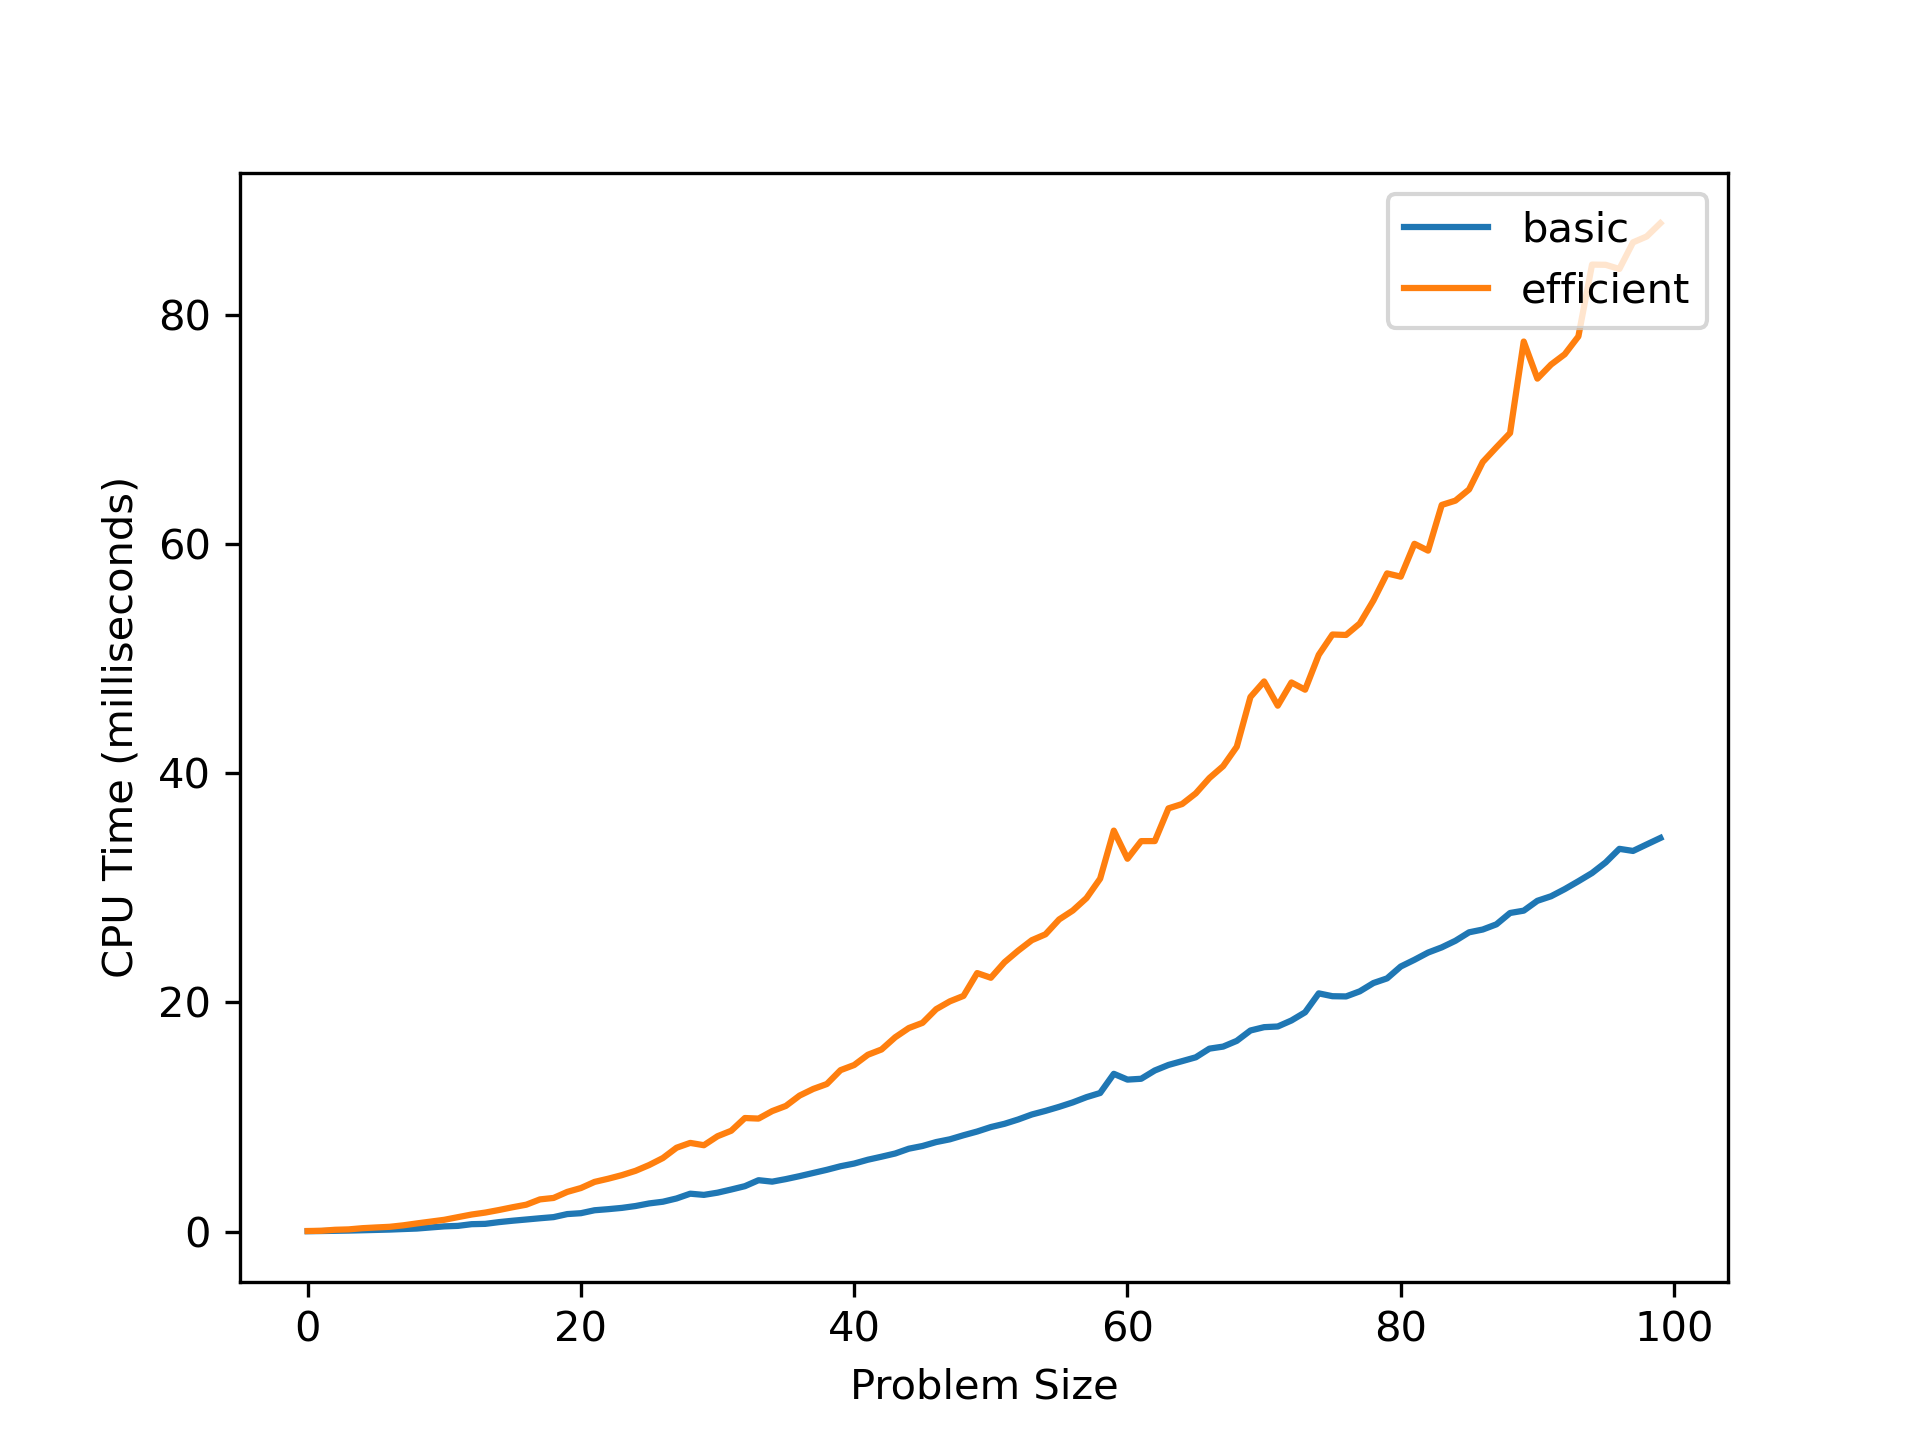
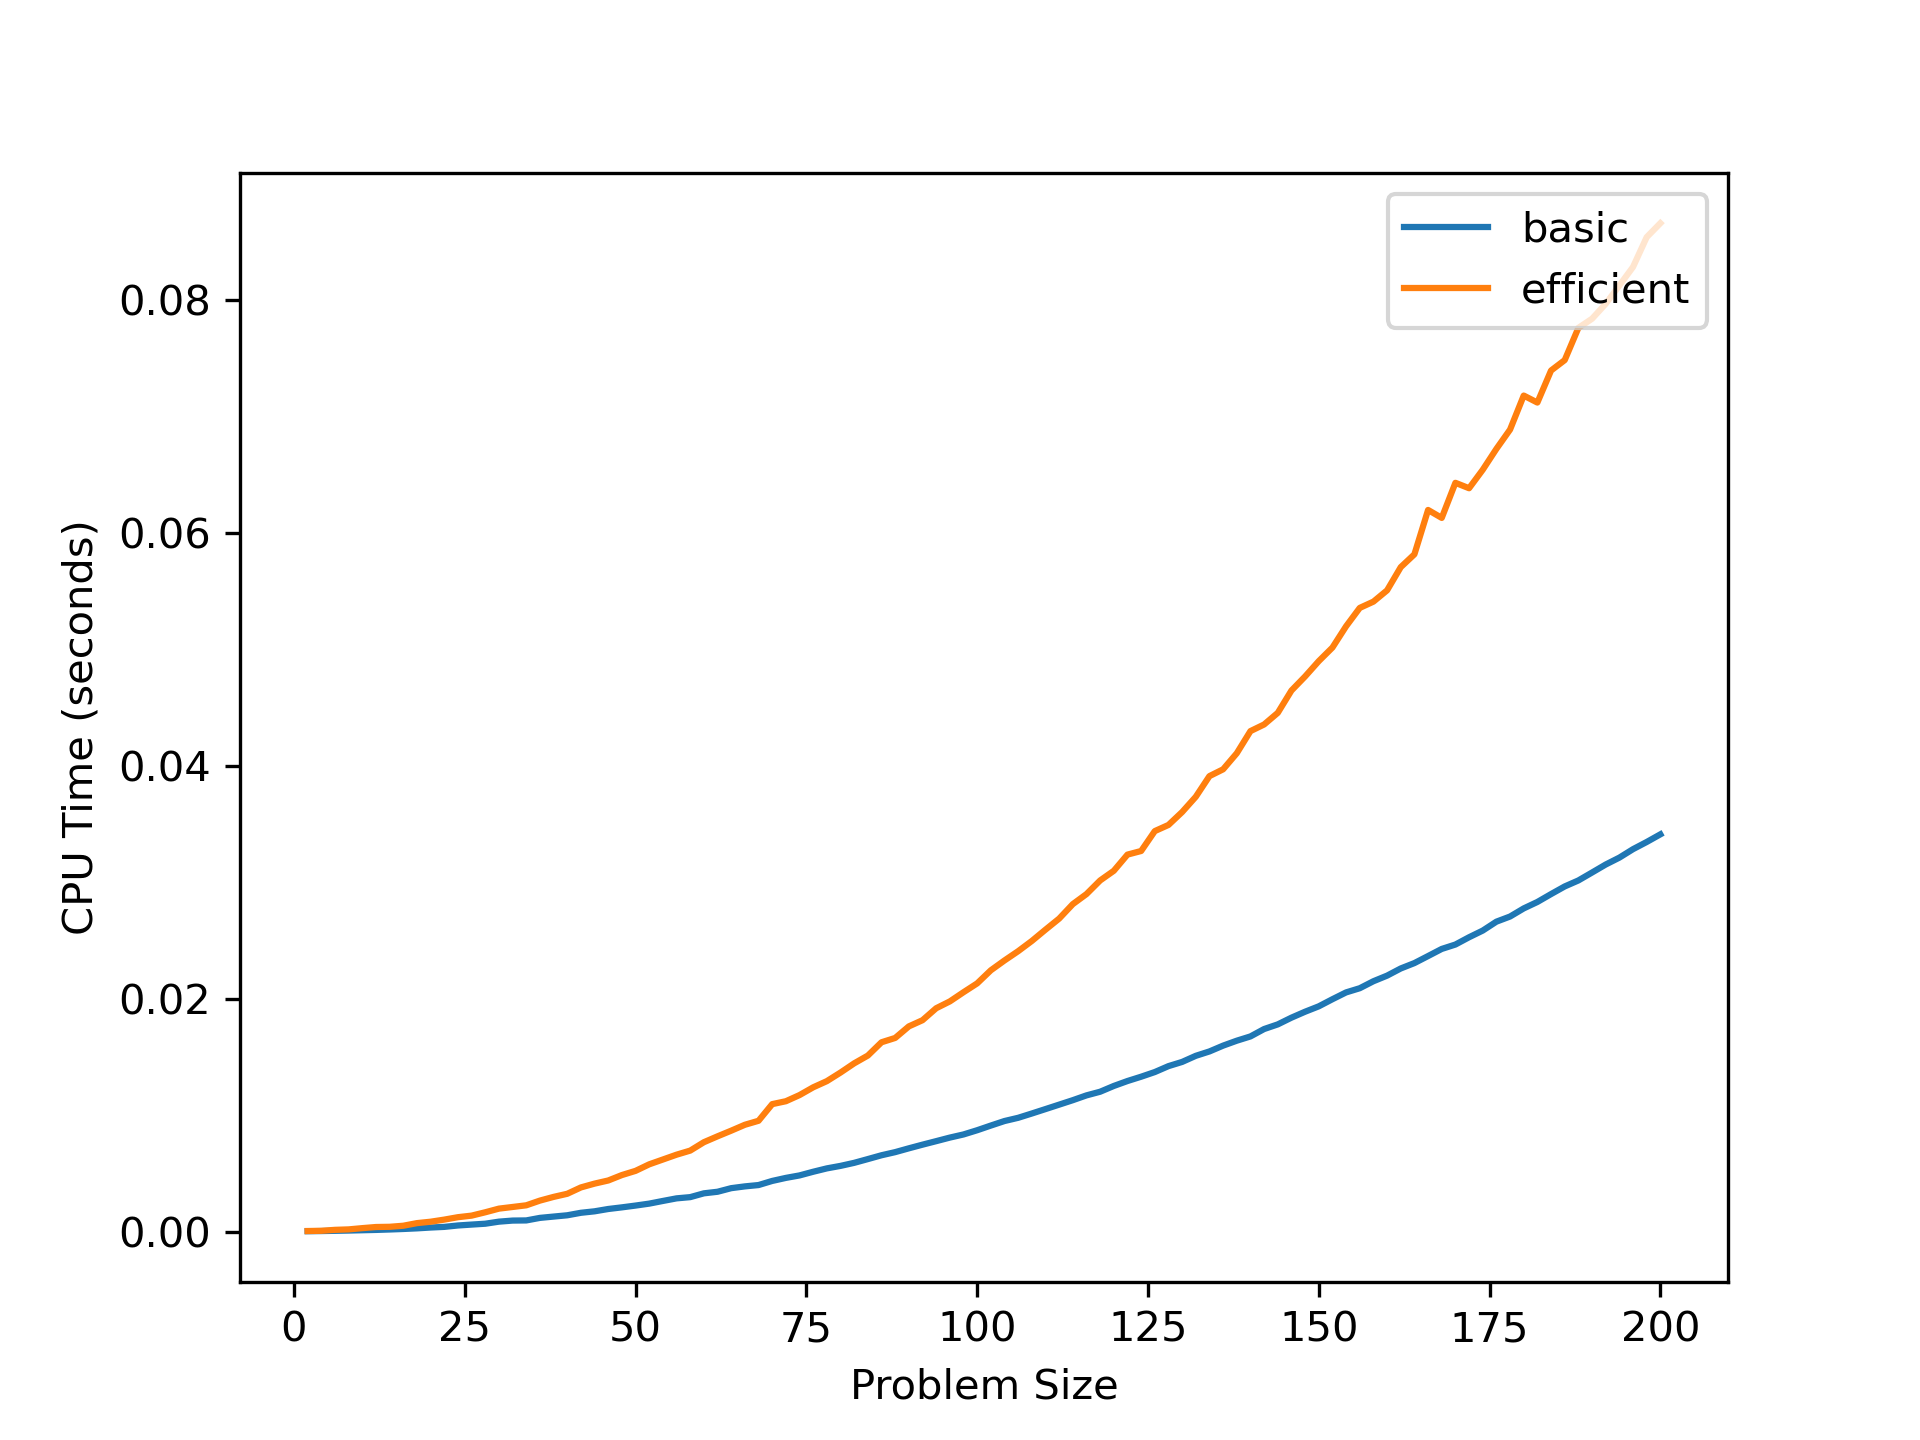
Changes in Problem size, time.

diff --git a/graphs.py b/graphs.py
@@ -48,7 +48,7 @@ def stats_basic(X,Y):
         current_memory_list.append(current_memory / 10**3)
         peak_memory_list.append(peak_memory / 10**3)
     
-    return np.median(time_list)*10**3, np.median(current_memory_list),np.median(peak_memory_list)
+    return np.median(time_list), np.median(current_memory_list),np.median(peak_memory_list)
         
 def stats_efficient(X,Y):
     time_list = []
@@ -65,7 +65,7 @@ def stats_efficient(X,Y):
         current_memory_list.append(current_memory / 10**3)
         peak_memory_list.append(peak_memory / 10**3)
     
-    return np.median(time_list)*10**3, np.median(current_memory_list),np.median(peak_memory_list)
+    return np.median(time_list), np.median(current_memory_list),np.median(peak_memory_list)
 
 def generate_graphs():
 
@@ -77,11 +77,13 @@ def generate_graphs():
         X,Y = generate_X_and_Y(i)
         time_basic, curr_memory_basic , peak_memory_basic = stats_basic(X,Y)
         time_efficient, curr_memory_efficient , peak_memory_efficient = stats_efficient(X,Y)
-        time_comp.append([time_basic,time_efficient])
-        memory_comp.append([peak_memory_basic,peak_memory_efficient])
+        time_comp.append([2*i,time_basic,time_efficient])
+        memory_comp.append([2*i, peak_memory_basic,peak_memory_efficient])
+    
+    
+    time_comp_df = pd.DataFrame(time_comp, columns=['problem_size','time_basic','time_efficient']).set_index('problem_size')
 
-    time_comp_df = pd.DataFrame(time_comp, columns=['time_basic','time_efficient'])
-    memory_comp_df = pd.DataFrame(memory_comp, columns=['peak_memory_basic','peak_memory_efficient'])
+    memory_comp_df = pd.DataFrame(memory_comp, columns=['problem_size','peak_memory_basic','peak_memory_efficient']).set_index('problem_size')
     
     plt.plot(memory_comp_df["peak_memory_basic"], label = 'basic')
     plt.plot(memory_comp_df["peak_memory_efficient"], label = 'efficient')
@@ -91,17 +93,19 @@ def generate_graphs():
     plt.savefig('MemoryPlot.png',dpi=300)
 
     plt.show()
+    plt.clf()
 
     plt.plot(time_comp_df["time_basic"], label = 'basic')
     plt.plot(time_comp_df["time_efficient"], label = 'efficient')
     plt.legend(loc="upper right")
     plt.xlabel('Problem Size')
-    plt.ylabel('CPU Time (milliseconds)')
+    plt.ylabel('CPU Time (seconds)')
     plt.savefig('CPUPlot.png',dpi=300)
     plt.show()
     
-
     return time_comp_df, memory_comp_df
     
 time_comp_df, memory_comp_df = generate_graphs()
 
+time_comp_df.to_csv("time.csv")
+memory_comp_df.to_csv("memory.csv")

diff --git a/efficient.py b/efficient.py
@@ -25,12 +25,13 @@ def read_and_generate_strings(input_file):
                 flag = 1
     return X,Y
 
-def write_output(X_align, Y_align, start_time, current_memory, peak_memory):
+def write_output(X_align, Y_align, start_time, current_memory, peak_memory, cost):
     output_file = open("output.txt", "w")        
     output_file.write(str(X_align[:50])  + ' ' + str(Y_align[:50] )+'\n')
     output_file.write(str(X_align[-50:]) + ' ' + str(Y_align[-50:])+'\n')
+    output_file.write(f'{str(float(cost))}\n')
     output_file.write(f"{time.time()-start_time}"+'\n')
-    output_file.write(f"{peak_memory}"+'\n')
+    output_file.write(f"{peak_memory/1e3}"+'\n')
     output_file.close()
 
 
@@ -185,8 +186,8 @@ def run_sequence_alignment(input_file):
     delta = 30
     X,Y = read_and_generate_strings(input_file)
     sequence_alignment = SequenceAlignmentEfficient(X,Y,alpha,delta)
-    #cost = sequence_alignment.calculate_alignment_cost()
-    return sequence_alignment.find_alignment()
+    cost = sequence_alignment.calculate_alignment_cost()
+    return sequence_alignment.find_alignment(), cost[-1]
 
 
 def main():
@@ -197,11 +198,11 @@ def main():
     tracemalloc.start()
     start_time = time.time()
     
-    X_align, Y_align = run_sequence_alignment(args.input)
-
+    alignment, cost = run_sequence_alignment(args.input)
+    X_align, Y_align = alignment
     current_memory, peak_memory = tracemalloc.get_traced_memory()
     tracemalloc.stop()
-    write_output(X_align,Y_align,start_time,current_memory,peak_memory)
+    write_output(X_align,Y_align,start_time,current_memory,peak_memory, cost)
 
 if __name__ == "__main__":
     main()

diff --git a/basic.py b/basic.py
@@ -27,12 +27,13 @@ def read_and_generate_strings(input_file):
                 flag = 1
     return X,Y
 
-def write_output(X_align, Y_align, start_time, current_memory, peak_memory):
+def write_output(X_align, Y_align, start_time, current_memory, peak_memory, cost):
     output_file = open("output.txt", "w")        
     output_file.write(str(X_align[:50])  + ' ' + str(Y_align[:50] )+'\n')
     output_file.write(str(X_align[-50:]) + ' ' + str(Y_align[-50:])+'\n')
+    output_file.write(f'{str(float(cost))}\n')
     output_file.write(f"{time.time()-start_time}"+'\n')
-    output_file.write(f"{peak_memory}"+'\n')
+    output_file.write(f"{peak_memory/1e3}"+'\n')
     output_file.close()
 
 
@@ -115,7 +116,7 @@ def run_sequence_alignment(input_file):
     X,Y = read_and_generate_strings(input_file)
     sequence_alignment = SequenceAlignmentBasic(X,Y,alpha,delta)
     cost = sequence_alignment.calculate_alignment_cost()
-    return sequence_alignment.find_alignment()
+    return sequence_alignment.find_alignment(), cost
 
 def main():
     parser = argparse.ArgumentParser()
@@ -125,11 +126,11 @@ def main():
     tracemalloc.start()
     start_time = time.time()
 
-    X_align, Y_align = run_sequence_alignment(args.input)
-
+    alignment, cost = run_sequence_alignment(args.input)
+    X_align, Y_align = alignment 
     current_memory, peak_memory = tracemalloc.get_traced_memory()
     tracemalloc.stop()
-    write_output(X_align,Y_align,start_time,current_memory,peak_memory)
+    write_output(X_align,Y_align,start_time,current_memory,peak_memory,cost)
     
 
 
